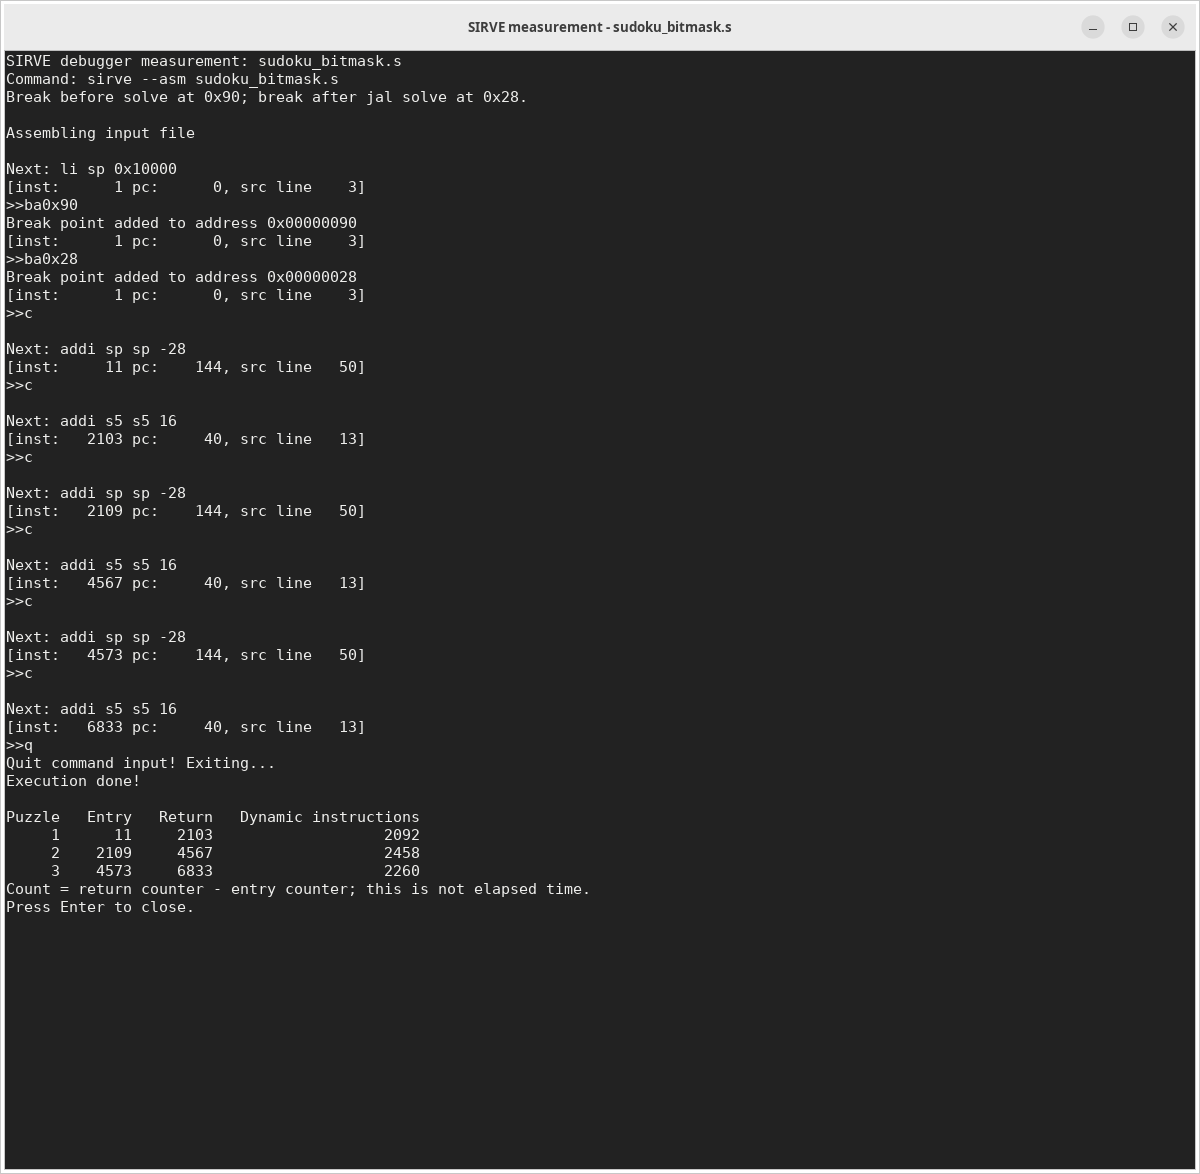
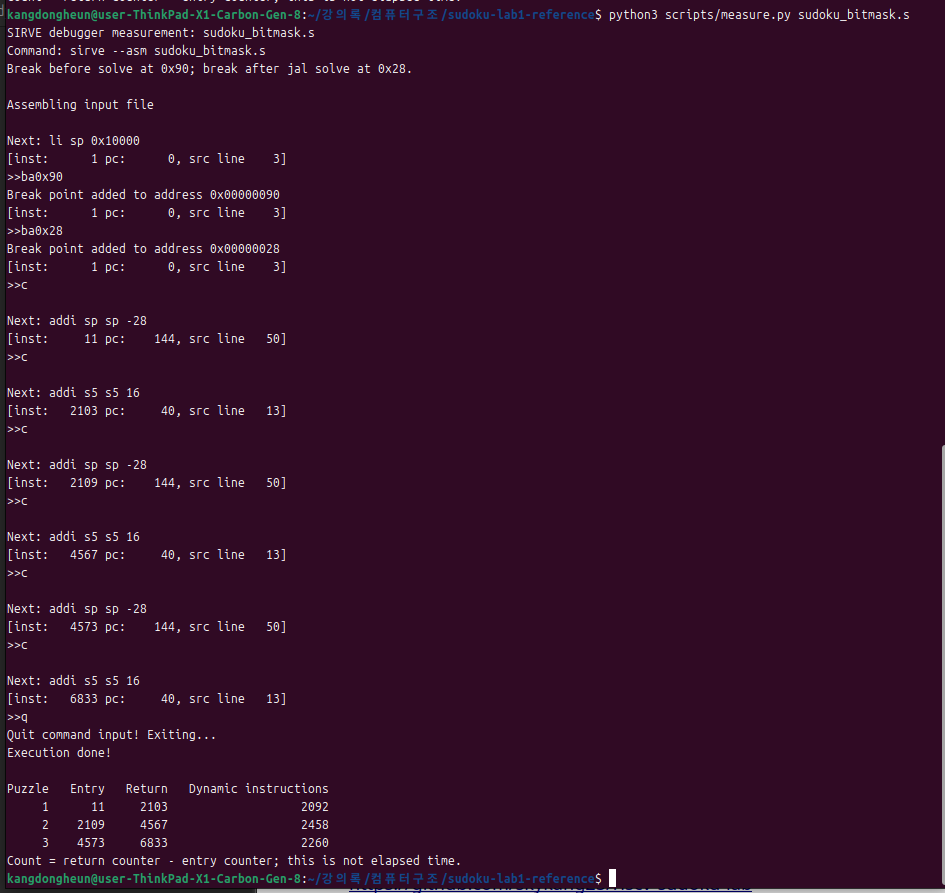
Use user-captured terminal screenshots and align C filename references

Changed region(s): [[0.0, 0.0, 1.0, 1.0], [0.1534, 0.3628, 0.3069, 0.3931]]

diff --git a/scripts/verify.py b/scripts/verify.py
@@ -134,7 +134,7 @@ def main():
         temporary = Path(directory)
         library = temporary / "design.so"
         subprocess.run(["gcc", "-std=c11", "-Wall", "-Wextra", "-Werror", "-pedantic",
-                        "-shared", "-fPIC", str(ROOT / "sudoku_design.c"), "-o", str(library)], check=True)
+                        "-shared", "-fPIC", str(ROOT / "sudoku_ideation.c"), "-o", str(library)], check=True)
         c = ctypes.CDLL(str(library))
         array = ctypes.c_uint8 * 16
         c.solve.argtypes = [ctypes.POINTER(ctypes.c_uint8)]

diff --git a/README.md b/README.md
@@ -9,7 +9,7 @@
 | 파일 | 역할 |
 |---|---|
 | [sudoku_baseline.s](sudoku_baseline.s) | 보고서 (a)·(b)·(c)의 기준이 되는 개선 전 구현. 기존 `sudoku1.s`의 주석까지 보존한 복사본 |
-| [sudoku_design.c](sudoku_design.c) | 같은 알고리즘을 읽기 쉬운 C로 정리한 설계 모델 |
+| [sudoku_ideation.c](sudoku_ideation.c) | 같은 알고리즘을 읽기 쉬운 C로 정리한 설계 모델 |
 | [sudoku_bitmask.s](sudoku_bitmask.s) | `solve`는 그대로 두고, `can_place`에 로컬 비트마스크·반복 펼치기·중복 검사 제거를 적용한 비교 구현 |
 | [scripts/measure.py](scripts/measure.py) | 실제 SIRVE debugger의 PTY에 중단점 명령을 입력하고 카운터 차이를 계산 |
 | [scripts/verify.py](scripts/verify.py) | 두 구현과 C 모델의 기능·호출 규약 검증 |
@@ -40,19 +40,19 @@ helper 호출, prologue/epilogue, 마지막 `ret`을 포함하며 caller의 `jal
 
 ### Before: baseline
 
-![개선 전 실제 VTE 터미널 측정 화면](assets/sudoku_baseline-terminal.png)
+![직접 캡처한 개선 전 터미널 측정 화면](assets/sudoku_baseline-terminal.png)
 
 [원본 debugger 로그](assets/sudoku_baseline-measurement.txt)
 
 ### After: bitmask
 
-![개선 후 실제 VTE 터미널 측정 화면](assets/sudoku_bitmask-terminal.png)
+![직접 캡처한 개선 후 터미널 측정 화면](assets/sudoku_bitmask-terminal.png)
 
 [원본 debugger 로그](assets/sudoku_bitmask-measurement.txt)
 
-이 이미지는 별도 Xvfb 디스플레이에서 **실제 GTK/VTE 터미널**에 SIRVE를 실행하고
-그 창의 픽셀을 캡처한 것입니다. debugger 입력은 `pexpect`가 실제 PTY로 전송합니다.
-출력 숫자를 이미지 위에 다시 그리거나 HTML로 재구성하지 않았습니다.
+이 이미지는 로컬 터미널에서 `scripts/measure.py`를 실행한 결과를 직접 캡처한 것입니다.
+측정 스크립트는 `pexpect`로 실제 SIRVE debugger의 PTY에 중단점 명령을 입력합니다.
+직접 촬영한 PNG 원본을 그대로 첨부했습니다.
 각 캡처 하단의 요약 표는 같은 세션에서 얻은 카운터의 차이를 계산한 값입니다.
 
 ## 비트마스크 구현에서 바뀐 점
@@ -81,7 +81,7 @@ GNU C compiler와 Python 3도 필요하며, 측정 스크립트는 `pexpect`를 
 sirve --asm sudoku_baseline.s run
 sirve --asm sudoku_bitmask.s run
 
-gcc -std=c11 -Wall -Wextra -Werror -pedantic -DSUDOKU_DEMO sudoku_design.c -o /tmp/sudoku-design-demo
+gcc -std=c11 -Wall -Wextra -Werror -pedantic -DSUDOKU_DEMO sudoku_ideation.c -o /tmp/sudoku-design-demo
 /tmp/sudoku-design-demo
 
 python3 scripts/verify.py
@@ -116,13 +116,10 @@ sirve --asm sudoku_baseline.s
 | bitmask | 2 | 2109 | 4567 | 2458 |
 | bitmask | 3 | 4573 | 6833 | 2260 |
 
-캡처를 다시 만들려면 Linux에서 Xvfb, GTK/VTE Python bindings, `xwininfo`,
-Python Pillow와 pexpect가 필요합니다. VTE는 GNOME Terminal에서도 사용하는 terminal widget입니다.
-
-```bash
-python3 scripts/capture_terminal.py sudoku_baseline.s
-python3 scripts/capture_terminal.py sudoku_bitmask.s
-```
+직접 캡처하려면 로컬 터미널에서 위 측정 스크립트를 각 버전에 대해 실행하고,
+중단점 기록과 하단 요약 표가 보이도록 화면을 캡처합니다. 개선 전 사진은
+`assets/sudoku_baseline-terminal.png`, 개선 후 사진은 `assets/sudoku_bitmask-terminal.png`로
+저장하면 README의 이미지 경로를 유지할 수 있습니다.
 
 ## 검증 범위
 
